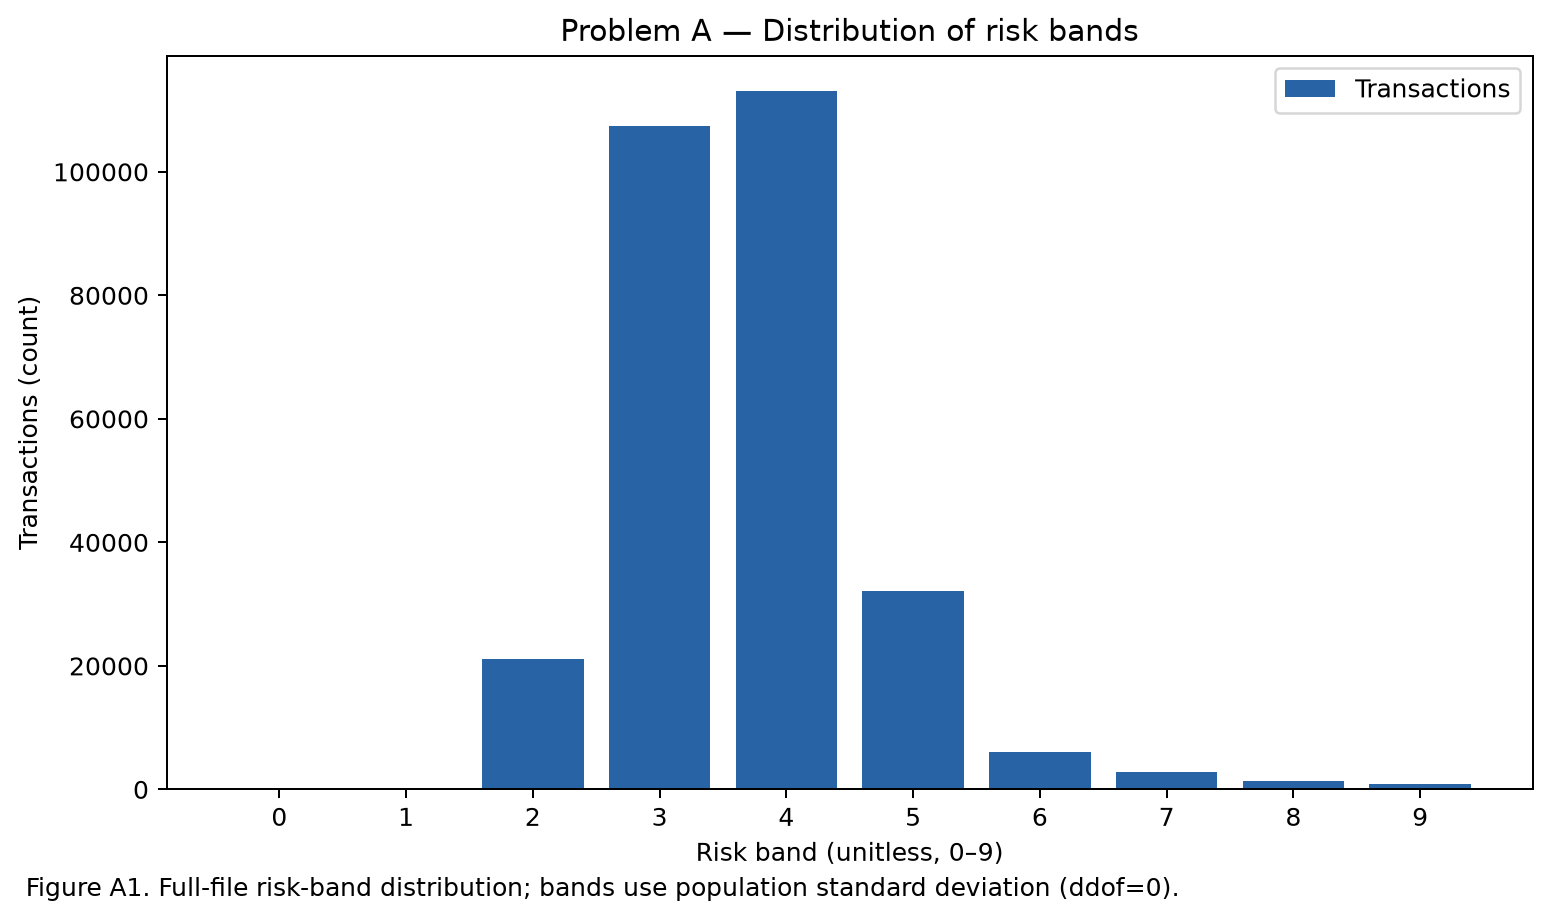
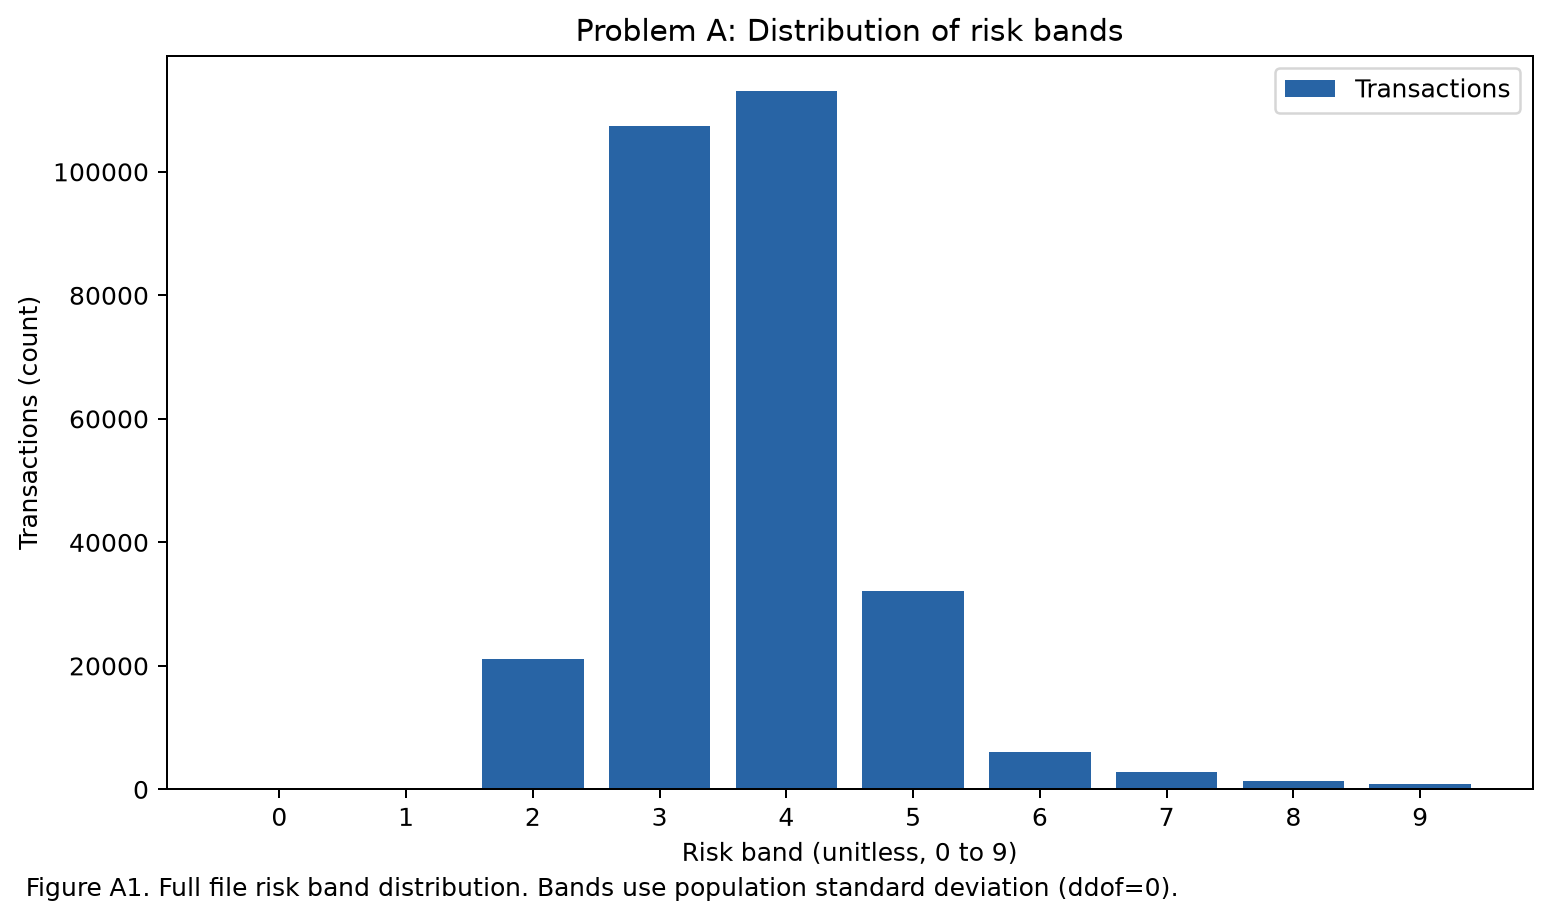
modified multiple files

Changed region(s): [[0.1239, 0.913, 0.7742, 0.9739], [0.3716, 0.0, 0.7432, 0.0609]]

diff --git a/analysis/problem_a.py b/analysis/problem_a.py
@@ -63,12 +63,12 @@ def main() -> None:
 
     fig, ax = plt.subplots(figsize=(8.5, 4.8), constrained_layout=True)
     ax.bar(profile["band"], profile["transactions"], color="#2864a5", label="Transactions")
-    ax.set_xlabel("Risk band (unitless, 0–9)")
+    ax.set_xlabel("Risk band (unitless, 0 to 9)")
     ax.set_ylabel("Transactions (count)")
     ax.set_xticks(range(10))
-    ax.set_title("Problem A — Distribution of risk bands")
+    ax.set_title("Problem A: Distribution of risk bands")
     ax.legend()
-    fig.text(0.01, -0.025, "Figure A1. Full-file risk-band distribution; bands use population standard deviation (ddof=0).")
+    fig.text(0.01, -0.025, "Figure A1. Full file risk band distribution. Bands use population standard deviation (ddof=0).")
     fig.savefig(args.out / "risk_band_histogram.png", dpi=180, bbox_inches="tight")
     plt.close(fig)
 

diff --git a/PLAN.md b/PLAN.md
@@ -1,52 +1,50 @@
-# Assignment requirements and implementation plan
+# Project plan and progress
 
-## Specification summary
+## Goal
 
-The assignment requests a reproducible investigation of a triage order over the ULB credit-card transactions. The key is band descending, Amount descending, Time ascending, txn_id ascending; Class is evaluation-only. The score uses full-file standardization for V1–V28, squared z-score sum, then `min(9,max(0,floor(log2(risk))))`. Personal parameters are roll number `s=2013`, random seed 2013, and `K=230`.
+Build and study a C++ transaction ranking engine. The system should rank transactions by risk and support full sorting, Top K selection, and later updates from a live feed. Results must come from running the code on the local credit card data.
 
-Required work:
+## Fixed settings
 
-| Area | Required output |
-|---|---|
-| A | Band profile/histogram, Amount cardinality/top-ten share, fraud distribution, evidence for existing input conditions |
-| B | Insertion, merge, naive Lomuto-last-pivot quicksort, one hardened quicksort, heapsort, size-K min-heap, bounded insertion buffer; correctness tests including edge/tie-heavy inputs |
-| C | Five full-sort contenders over C1–C6 and n=1k/10k/100k/full; predictions; timing, counts, memory/stability summary and specified plots |
-| D | Full sort, size-K heap, bounded insertion buffer across requested K, n and C1/C2; fraud capture curve and half-capture cost |
-| E | 1-hour and 10-minute windows; repeated ranking, incremental size-K heap and merge-new-window strategies; cumulative time and peak extra memory |
-| F | Eight required derivations, including inversion count, recurrences, C6 duplicate-group quicksort comparisons and crossover analysis |
-| G | Change-request addendum once the course portal posts the change |
-| H | Evidence-based recommendations for batch ranking, shift queue and live refresh, including assumptions and failure conditions |
-| Submission | C++ source/tests/README, `results.csv`, <=5-page PDF report, prediction log appendix, AI-use disclosure, live demo/viva preparation |
+- Roll number and random seed: `2013`
+- Queue size: `K = 230`
+- Full dataset size: 284,807 transactions
+- Fraud count in the current data file: 492
+- Risk features: V1 through V28
+- Sort order: risk band descending, Amount descending, Time ascending, transaction ID ascending
+- Class is used only to count frauds after ranking.
 
-## Repository audit against the assignment
+## Current progress
 
-| Requirement | Current state | Limitation / next action |
+| Area | Progress | Remaining work |
 |---|---|---|
-| C++ build and common key | Present; MinGW compile works after adding its `bin` folder to `PATH` | CMake is described but is not installed on this machine; make direct compiler commands primary or install CMake later |
-| Problem A data profile | Python pandas/NumPy script, CSV table, JSON summary and histogram generated | Need write the profile and data-quality note into final report; declare `ddof=0` explicitly |
-| Problem B full-sort algorithms | All five required algorithms are implemented; tests now exercise each on empty, singleton, duplicate-heavy total-order input, and C6 band-only ordering | Still add larger randomized, sorted and reverse-sorted cases; clarify/count element moves consistently before reporting metrics |
-| Problem B Top-K | Heap and bounded insertion implementations exist; differential checks pass for K=0, K<=n and K>n on mixed-priority records | Expand Top-K checks to repeated-key and larger inputs |
-| Dataset processing | C++ and Python loaders compute full-file risk bands; local Kaggle CSV is available and ignored by Git | Validate Class values and row IDs robustly; keep `Class` isolated to evaluation |
-| C1–C6 input conditions | C++ sample/condition builders now exist; tests check seeded sampling, Time order, pre-ranked/reverse order, record preservation, C5 displacement and C6 comparator | Integrate them into a complete benchmark driver and document C5's random-position procedure |
-| Problems C–E experiments | Not implemented | Produce all size/condition/top-K/live-window runs, medians, timeout/DNF handling, memory estimates and `results.csv` |
-| Plots and prediction log | Only Problem A histogram exists | Generate requested labelled plots from measurements and fill prediction log before each benchmark round |
-| Problem F derivations | Not written | Derive all eight items and compare count predictions with measured runs |
-| Problems G and H | Not written | G depends on a later course-portal change; H depends on measured evidence |
-| Final submission | No five-page report or complete results file | Generate report source/PDF, include AI-use disclosure and prediction-log appendix, then check page limit |
+| Problem A: Know Your Data | Done. The Python profile checks data quality, reports risk bands and fraud counts, reports Amount statistics, and saves a labelled histogram. | Add the profile findings to the final report. |
+| Problem B: Build the Contenders | The five full sort methods, size K heap, and bounded insertion buffer are implemented in C++. The tests cover empty input, one item, repeated keys, Top K sizes, seeded sampling, and C1 to C6 construction. | Add larger randomized, sorted, and reverse sorted test cases. Review comparison and move counts before using them in result tables. |
+| Experiment inputs | The C++ code samples rows in Time order and builds C1 to C6 with the personal seed. | Add these inputs to the benchmark program. |
+| Problem C: Full Ranking Tournament | Not started. | Run all five full sort methods for all required input conditions and sizes. Save five run medians, counts, memory estimates, stability, and predictions. |
+| Problem D: Shift Queue | Not started. | Compare full sorting, the size K heap, and the bounded buffer across the required queue sizes, data sizes, and input conditions. Measure fraud capture. |
+| Problem E: Live Feed | Not started. | Compare full re-ranking, a maintained heap, and sorting plus merging for one hour and ten minute windows. Save cumulative time and extra memory. |
+| Problem F: Mathematical Case | Not started. | Write all eight derivations and compare theoretical predictions with measured counts and times. |
+| Problem G: Change Request | Waiting for the course portal to provide the change. | Add the requested report update and new measurements after the change is posted. |
+| Problem H: Recommendation | Not started. | Recommend methods for daily ranking, the shift queue, and live refresh using measured results. State assumptions and cases where each choice could be wrong. |
+| Final files | README, source code, tests, and Problem A outputs are present. | Create `results.csv`, the prediction log, requested charts, and a report of no more than five pages. Include a short AI use note and prepare for the demonstration. |
 
-## Plan and status
+## Limits and decisions
 
-1. **Foundation and Problem A:** core sort/selection implementations, dataset loader, Problem A analysis, and profile outputs are present. Expand differential tests and finalize count semantics.
-2. **Experiment inputs (in progress):** C++ sampling and C1–C6 condition construction are implemented and covered by deterministic unit tests.
-3. **Benchmark driver:** run fresh copies, record comparison/move counts, median of five timings, extra memory/stability and 5-minute DNF. Provide a fast smoke mode and the full assignment matrix.
-4. **Problems C–E:** generate `results.csv`, prediction log, charts, top-K fraud-capture results, and live-feed timing/memory results.
-5. **Problem F:** derive and document all required recurrences and selection/feed cost models, checking where the measurements agree or differ.
-6. **Problems G–H and report:** incorporate the posted change request when supplied; base recommendations on the measured results; write a <=5-page report with AI-use disclosure.
-7. **Reproduction pass:** verify build/run commands, keep the dataset out of Git, and prepare a source ZIP and viva notes.
+- The local `creditcard.csv` file is not tracked in Git and must not be included in the source package.
+- The profile uses population standard deviation with `ddof=0`. It checks for missing, nonnumeric, and nonfinite data and does not silently remove or fill rows.
+- The current profile found 32,767 distinct Amount values. The ten most common Amount values cover 16.291032 percent of all transactions.
+- The raw data is in nondecreasing Time order. It is not already sorted by the complete triage key and is not the exact reverse of that order.
+- The C++ programs use MinGW. Add `C:\msys64\mingw64\bin` to PowerShell `PATH` so MinGW can find its runtime libraries.
+- Problem G cannot be completed until the course provides its new requirement.
+- No benchmark result, prediction, or recommendation should be invented. Record the computer and software details when the full runs are performed.
 
-## Measurement integrity and open dependencies
+## Next steps
 
-- `creditcard.csv` is available in the local workspace but is intentionally excluded from Git and all submission packages.
-- Problem G's change request is posted later by the course and cannot be inferred in advance.
-- The assignment's 5-run medians and performance charts will only be reported after running the code on the user's machine and dataset. Never substitute invented measurements.
-- The requested PDF report requires a rendering tool; keep source report content editable and record the final page count when generated.
+1. Expand the correctness tests and confirm the comparison and move counting rules.
+2. Build a benchmark program that uses fresh input copies, runs five trials, records median time, and stops a run after five minutes.
+3. Run Problems C, D, and E. Save all measurements in `results.csv` and record predictions before each run.
+4. Create the requested plots from measured data. Every plot needs clear axis labels and units, a legend, and a caption.
+5. Write the Problem F derivations and use the results to support Problem H recommendations.
+6. Add the Problem G update after the new requirement is posted.
+7. Write and check the final report, package source and tests without the data file, and prepare for the live demonstration.

diff --git a/README.md b/README.md
@@ -1,41 +1,145 @@
-# The Midnight Queue — C++ Assignment 2
+# The Midnight Queue
 
-C++ implementation and experiments for the Design and Analysis of Algorithms assignment. The PDF requirements are treated as the specification; all executable code is C++ as requested.
+The Midnight Queue ranks payment transactions by estimated risk. Analysts can review only a limited number of transactions during each shift, so the highest ranked items should appear first.
 
-## Personal parameters
+This project uses the Kaggle credit card fraud data. It calculates a risk band for each transaction and orders transactions by:
 
-- Roll number / random seed: `2013`
-- Shift capacity: `K = 25 + (2013 mod 226) = 230`
-- Dataset: obtain `creditcard.csv` from the Kaggle page in the assignment. Do not commit or include the dataset.
+1. Risk band from highest to lowest.
+2. Amount from highest to lowest.
+3. Time from earliest to latest.
+4. Transaction ID from lowest to highest.
 
-## Build
+The transaction class identifies fraud for evaluation only. It is not used to calculate risk or to order transactions.
 
-Requires a C++17 compiler and CMake 3.16 or newer.
+## Risk score and data checks
+
+The input CSV has columns `Time`, `V1` through `V28`, `Amount`, and `Class`. For each of V1 through V28, the program calculates the mean and population standard deviation from the full file. It converts each feature value to a z score, squares the 28 z scores, and adds them to get the risk score. The risk band is the base 2 logarithm of that score, rounded down and limited to the range 0 to 9. A zero risk score is assigned to band 0.
+
+The Python profile found no missing, nonnumeric, or nonfinite values. It found 1,081 repeated full data rows. These rows are kept because each row is a separate transaction and receives its own transaction ID.
+
+## Personal settings
+
+- Roll number and random seed: `2013`
+- Shift queue size: `K = 25 + (2013 mod 226) = 230`
+- Dataset file: `creditcard.csv`
+
+Keep the dataset in the project root when running the commands below. The file is excluded from Git and should not be included in a source package.
+
+## Current features
+
+### Transaction processing
+
+The C++ loader reads the Kaggle CSV file, checks its columns and numeric fields, and calculates the mean and population standard deviation for features V1 through V28. It standardizes each feature, sums the squared standardized values, and maps the result to a risk band from 0 to 9.
+
+### Ranking and selection algorithms
+
+The C++ library includes these implementations:
+
+- Insertion Sort
+- Merge Sort
+- Naive Quick Sort using the last item as the Lomuto pivot
+- Hardened Quick Sort using a median of three pivot and three way partition
+- Heap Sort
+- Top K using a size K min heap
+- Top K using a bounded insertion buffer
+
+The C++ condition builder creates time ordered samples and the C1 through C6 input conditions with random seed 2013. Unit tests check the sorting methods, Top K selection, sample repeatability, and condition construction.
+
+### Input condition methods
+
+For each required sample size, the builder selects rows uniformly without replacement and keeps them in Time order. It then creates these inputs:
+
+- C1: sampled rows in Time order.
+- C2: C1 shuffled with the seeded random number generator.
+- C3: C1 ordered by the full triage key using the project's Merge Sort.
+- C4: the exact reverse of C3.
+- C5: C3 with one percent of records selected and placed at different random positions. Other records keep their relative order.
+- C6: the C1 input with a band-only comparison key.
+
+The benchmark driver for these conditions is still to be written.
+
+### Problem A profile
+
+The Python analysis uses pandas and NumPy to profile the full dataset. It checks for missing, nonnumeric, and nonfinite values. It does not silently drop or fill rows. Matplotlib creates the risk band histogram.
+
+The current profile contains 284,807 transactions and 492 frauds. It finds 32,767 distinct Amount values. The ten most frequent Amount values account for 16.291032 percent of transactions. The raw file is in nondecreasing Time order.
+
+The standard deviation uses the population formula with `ddof=0`. This choice is recorded in the profile output.
+
+## Build and run on Windows
+
+Open PowerShell in the project folder:
 
 ```powershell
-$env:Path = "C:\msys64\mingw64\bin;$env:Path"
-cmake -S . -B build
-cmake --build build --config Release
-ctest --test-dir build --output-on-failure
-```
-
-Or build the current targets directly with MinGW from PowerShell:
-
-```powershell
+cd "C:\Users\Azeem\Documents\fraud-risk-ranking-engine"
 $env:Path = "C:\msys64\mingw64\bin;$env:Path"
 New-Item -ItemType Directory -Force build | Out-Null
-g++ -std=c++17 -O2 -Wall -Wextra -Wpedantic -I include src\profile.cpp -o build\queue_profile.exe
-g++ -std=c++17 -O2 -Wall -Wextra -Wpedantic -I include tests\test_algorithms.cpp -o build\queue_tests.exe
-.\build\queue_tests.exe
-.\build\queue_profile.exe .\creditcard.csv
 ```
 
-The Problem A profiler accepts the dataset path as a command-line argument. Benchmark commands and `results.csv` generation will be added in the next phase; measured data is never fabricated or committed.
+Add the MinGW folder to `PATH` so the compiler and its runtime libraries can be found. Then compile the profile program and the tests:
 
-## Status
+```powershell
+g++ -std=c++17 -O2 -Wall -Wextra -Wpedantic -I include src\profile.cpp -o build\queue_profile.exe
+g++ -std=c++17 -O2 -Wall -Wextra -Wpedantic -I include tests\test_algorithms.cpp -o build\queue_tests.exe
+```
 
-See [PLAN.md](PLAN.md) for requirement mapping, implementation sequence, and remaining data-dependent work.
+Run the tests, the C++ data profile, and the Python profile:
 
-## Problem A profile
+```powershell
+.\build\queue_tests.exe
+.\build\queue_profile.exe .\creditcard.csv
+python analysis\problem_a.py creditcard.csv --out results\problem_a
+```
 
-Run `python analysis/problem_a.py creditcard.csv --out results/problem_a` to regenerate the pandas/NumPy profile and labelled histogram. This is the explicitly permitted Python analysis/visualization step; ranking algorithms remain C++. The script makes no silent row drops or imputations and records its standard-deviation convention in the output.
+The C++ profile program prints the transaction count, fraud count, Amount statistics, risk band counts, and checks the triage ordering. The Python command recreates the Problem A table, summary, and histogram.
+
+The project also has a `CMakeLists.txt` for CMake 3.16 or newer. Direct MinGW commands above work without CMake.
+
+## Project files
+
+```text
+fraud-risk-ranking-engine/
+|-- analysis/
+|   `-- problem_a.py
+|-- include/
+|   `-- midnight_queue/
+|       |-- algorithms.hpp
+|       |-- dataset.hpp
+|       |-- experiment_data.hpp
+|       `-- record.hpp
+|-- results/
+|   `-- problem_a/
+|       |-- risk_band_distribution.csv
+|       |-- risk_band_histogram.png
+|       `-- summary.json
+|-- src/
+|   `-- profile.cpp
+|-- tests/
+|   `-- test_algorithms.cpp
+|-- .gitignore
+|-- CMakeLists.txt
+|-- PLAN.md
+`-- README.md
+```
+
+### File guide
+
+| Path | Purpose |
+|---|---|
+| `include/midnight_queue/record.hpp` | Transaction record and triage comparison rules |
+| `include/midnight_queue/algorithms.hpp` | Sorting algorithms, Top K methods, and comparison and move counters |
+| `include/midnight_queue/dataset.hpp` | CSV loading, feature standardization, risk score, and risk band calculation |
+| `include/midnight_queue/experiment_data.hpp` | Seeded sampling and C1 through C6 input condition construction |
+| `src/profile.cpp` | C++ profile command line program |
+| `tests/test_algorithms.cpp` | C++ correctness tests |
+| `analysis/problem_a.py` | Python data checks, Problem A statistics, and histogram creation |
+| `results/problem_a/risk_band_distribution.csv` | Risk band and fraud count table |
+| `results/problem_a/summary.json` | Dataset checks, Amount statistics, and input order evidence |
+| `results/problem_a/risk_band_histogram.png` | Labelled risk band chart |
+| `CMakeLists.txt` | Optional CMake build setup |
+| `PLAN.md` | Work completed, known limits, and remaining work |
+| `.gitignore` | Keeps the dataset and local build files out of Git |
+
+## Work still needed
+
+The full benchmark program is not ready. The requested experiments for Problems C, D, and E, the full measurement file, prediction log, additional plots, mathematical explanations, recommendations, and final report still need to be completed. See [PLAN.md](PLAN.md) for the full checklist. Do not treat missing measurements as completed results.
